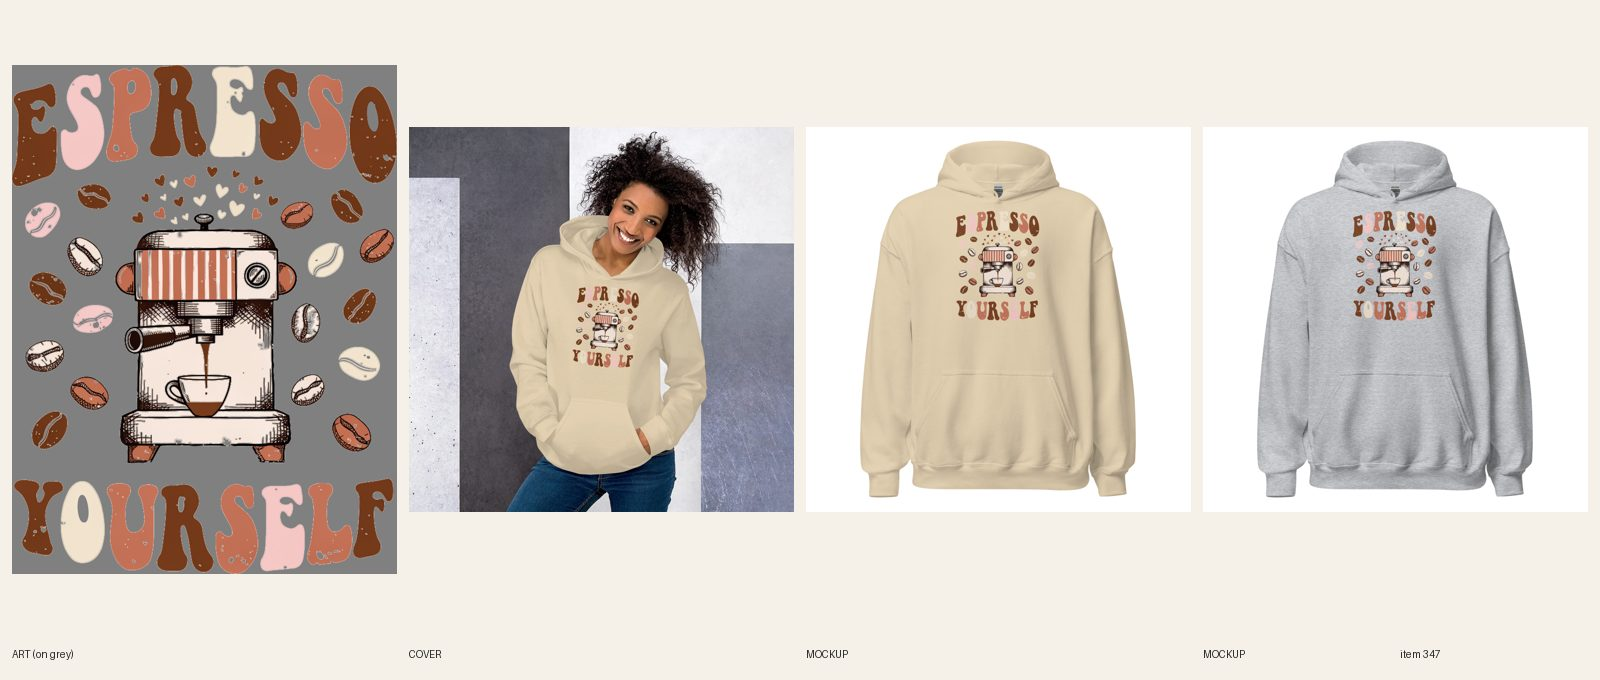
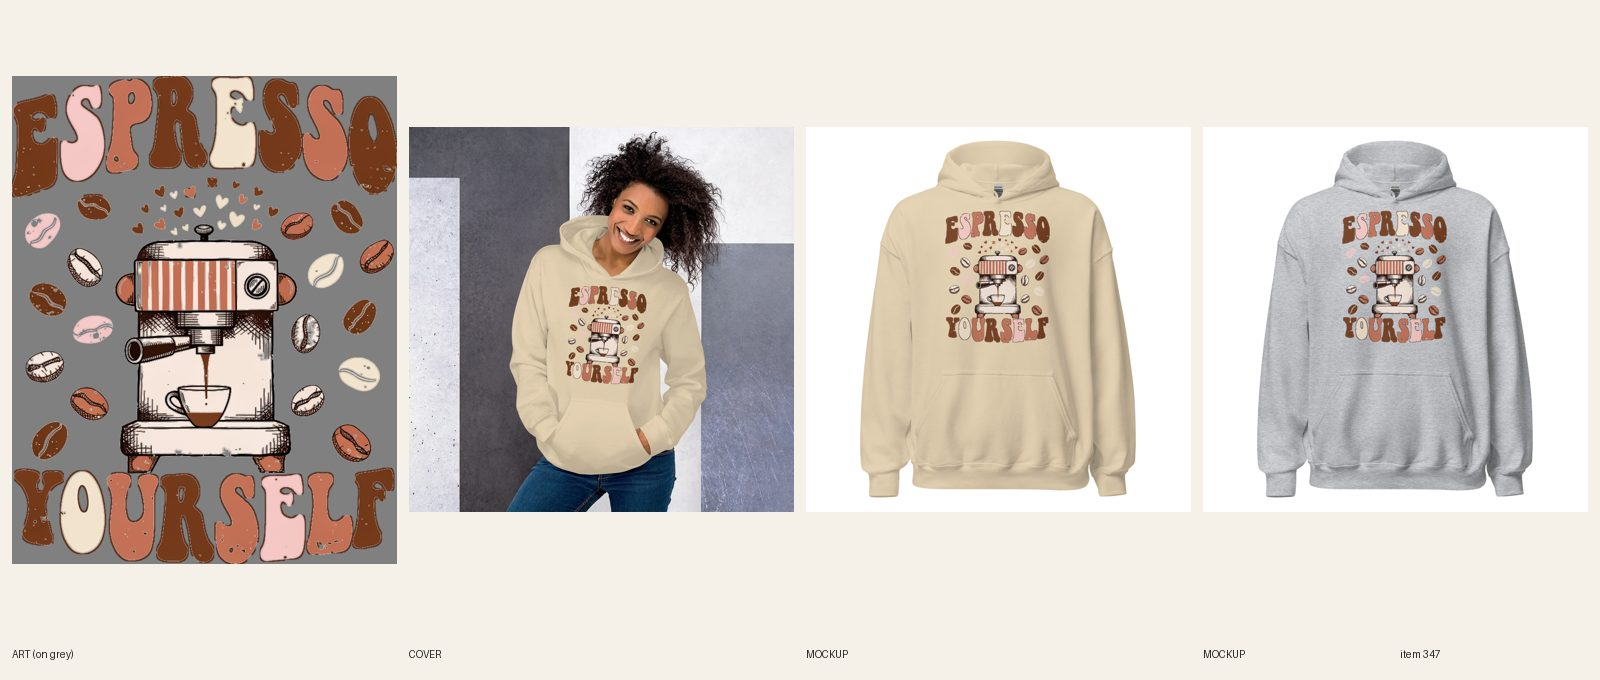
[A] review 347 Women's Espresso Yourself hoodie (redo)
Claude-Session: https://claude.ai/code/session_01RNDFUWvwzodTZW3k4ta5tF

diff --git a/docs/intake-log.md b/docs/intake-log.md
@@ -1,4 +1,5 @@
 RUNNING lane A since 2026-10-17 06:57 UTC
+2026-10-17 07:12 UTC — [A] REVIEW #347 espresso yourself hoodie (REDO: keyline on cream/pink letters, FW 1500, new mockups + temp cover)
 2026-10-17 07:02 UTC — [A] REVIEW #345 amazing grace crewneck (REDO: FW 1800, script scaled 1.4x, new mockups + temp cover)
 2026-10-17 06:46 UTC — [B] Builder run summary (temp-cover mode, no fal calls): REVIEW: #350 Slurp Responsibly, #351 Sore Since 1987, #352 Retired From Cardio crewnecks (REDO: relinked FW 1650, new mockups + temp covers; #351 Navy art rebuilt as a composite so the figure's linework shows, #352 Barbell Club script thickened). #354 Lake Life zip stays REDO, cover: pending (Printful has no two-person view for #692; proposed Ash + Carolina Blue). ART-NEXT Shopify drafts (no art/sync): #356-#367 (12 items; #357 flower launched Black + Military Green because Peach exists only in XL on Printful 7502). Print files for navy fixes are staged on branch art-staging (art/351navy.png, art/352navy.png). Lock released.
 2026-10-17 06:43 UTC — [H] Helper run: Telegram inbox empty (getUpdates returned nothing, nothing to consume). Audit (298 live): 91 errors, 90 price (builders' job), 1 hoodie in the Thanksgiving Sweatshirts collection (outside the helper's fix list, sent to docs/inbox.md). Warnings left alone. No scripted meta/SEO errors (those are warnings only). Category backfill: 0 products without a category. Site freshness: unisex-christmas-ski-lodge-hoodie, womens-bookish-plot-twist-hoodie, mens-gym-leg-day-survivor-heavyweight-hoodie all 200. Stuck check: none (no BUILDING items; [A] last 06:22, [B] 06:40, [D] 06:21). Announcement bar unchanged (price errors not zero). npm ci run to get esbuild. Daily summary not due (next after 12:00 UTC). Lock released.

diff --git a/docs/pipeline/347-cropped-hoodie-espresso-yourself-pullover.md b/docs/pipeline/347-cropped-hoodie-espresso-yourself-pullover.md
@@ -1,4 +1,4 @@
-status: REDO
+status: REVIEW
 lane: A
 type: twin
 id: 347
@@ -28,3 +28,4 @@ kd: 50
   1. R5.3.5 / R5.3.8: on Sand and Sport Grey the cream letters vanish: ESPRESSO reads "E PRESSO" and YOURSELF reads "Y URS LF" on both mockups. In print-prep recolor every cream letter of the two words to the art's pink or rust (or give them the brown outline the other letters have), keep the cream machine body, then check every letter on both colors at phone size.
   2. R5.3.2: FW 1200 is under the 1500 hoodie floor. Go to FW 1500; if the bottom then hits the pouch seam, move YOURSELF up closer to the bean ring in print-prep (tall art: tighten it, don't shrink it).
   3. Re-link 12/12, new Sand + Sport Grey mockups, variant images and temp cover, then REVIEW.
+- 2026-10-17 07:12 UTC [A]: REDO fixed (no fal). Print-prep: brown keyline added around every letter of ESPRESSO and YOURSELF (cream and pink letters now read on Sand and Sport Grey), YOURSELF moved up 190 px toward the bean ring, 3600x4565; Printful file 1088086184 (lane-a-files f/347b.png), linked at FW=1500 TOP=0 (print ends well above the pouch seam), sync 12/12. New Sand + Sport Grey mockups and back swapped on the DRAFT, variant images re-attached, temp cover re-made from the new file (Printful Women's Lifestyle 1421, Sand). Phone-size read: both words legible. Sheet docs/review/347.jpg. REVIEW.
